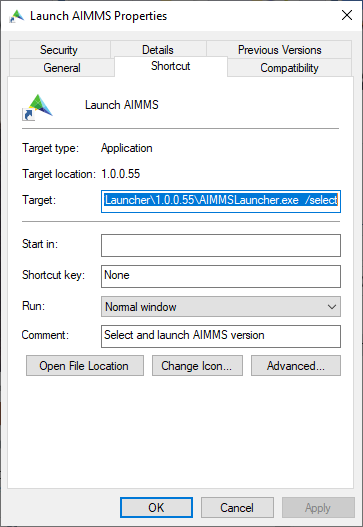
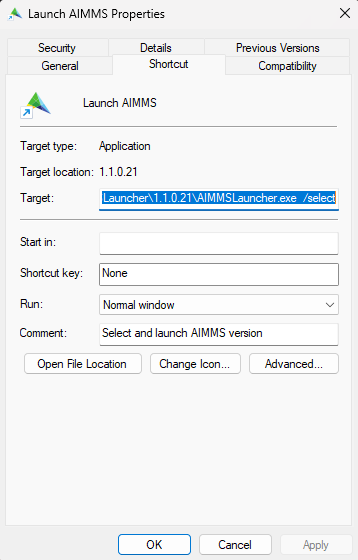
#350: changes after revision.
Former-commit-id: b421d103d000abb2f6f4ab2188a2297e00b79a71

diff --git a/Articles/350/350-install-AIMMS-elsewhere.rst b/Articles/350/350-install-AIMMS-elsewhere.rst
@@ -5,7 +5,7 @@ Installing AIMMS
    :description: Guide to installing AIMMS in a custom location and making it available for all users.
    :keywords: AIMMS, installation, all users, disk drive, custom location
 
-Installing AIMMS is straightforward. Simply download your chosen version from the `AIMMS downloads page <https://www.aimms.com/support/downloads>`_ and run the installer, such as ``Aimms-4.73.1.3-x64-VS2017.exe``. This installs AIMMS in the default location: ``%localappdata%\AIMMS\IFA\Aimms\``.
+Installing AIMMS Optimization Tooling is straightforward. Simply download your chosen version from the `AIMMS downloads page <https://www.aimms.com/support/downloads>`_ and run the installer, such as ``Aimms-4.73.1.3-x64-VS2017.exe``. This installs AIMMS in the default location: ``%localappdata%\Local\AIMMS\IFA\Aimms``.
 
 We recommend also downloading and installing the `AIMMS Launcher <https://www.aimms.com/support/downloads#aimms-other-download>`_ from the same page. The AIMMS Launcher offers the following features:
 
@@ -14,6 +14,8 @@ We recommend also downloading and installing the `AIMMS Launcher <https://www.ai
 
 .. image:: images/aimms-right-click.png
    :align: center
+
+|
 
 In most cases, this setup suffices. For custom installation requirements, such as installation for all users or to a non-default location, see the sections below.
 
@@ -27,22 +29,27 @@ You may wish to install AIMMS outside of the default location in these scenarios
 
 Starting with AIMMS 4.38, you can install AIMMS in a shared location, like ``C:\Program Files (x86)\AIMMS\IFA``.
 
-### Ensuring AIMMS Launcher is Up-to-Date
+Ensuring AIMMS Launcher is Up-to-Date
+~~~~~~~~~~~~~~~~~~~~~~~~~~~~~~~~~~~~~~~
 
 Before proceeding, make sure you have the latest version of AIMMS Launcher. You can check your installed version by viewing its properties. For example, an outdated version might be labeled ``1.0.0.50``:
 
 .. image:: images/LauncherTooOld.png
    :align: center
 
+|
+
 Reinstalling the Launcher from the downloads page will update it:
 
 .. image:: images/LauncherRefreshed.png
    :align: center
 
+|
+
 For installations requiring administrative access, install AIMMS Launcher with elevated rights. This will place it in ``C:\Program Files (x86)\AIMMS\IFA\AIMMSLauncher``.
 
 Installing on a Different Drive
--------------------------------
+~~~~~~~~~~~~~~~~~~~~~~~~~~~~~~~~~~~~~~~
 
 To save disk space, you may want to install AIMMS on a different drive. Although the installer doesn’t support custom drives directly, you can accomplish this using a symbolic link.
 
@@ -64,8 +71,6 @@ To save disk space, you may want to install AIMMS on a different drive. Although
 
 For more information on symbolic links, see the `Microsoft documentation <https://docs.microsoft.com/en-us/windows-server/administration/windows-commands/mklink>`_.
 
-### Installing AIMMS to the New Location
-
 With the symbolic link in place, you’re ready to install AIMMS in the new location. Run the installer "as administrator" by right-clicking it and choosing "Run as administrator". AIMMS will install to the new location on the D Drive, making it accessible to all licensed users on the machine.
 
 Installing the License
@@ -76,4 +81,4 @@ To use AIMMS, you must have a valid license:
 * If you don’t have one, request a `free academic license <https://www.aimms.com/support/licensing/academic-license/>`_.
 * Learn more about AIMMS licensing on the `AIMMS licensing page <https://www.aimms.com/support/licensing/>`_.
 * If managing multiple licenses, the `AIMMS Network License Server <https://www.aimms.com/support/downloads#aimms-other-download>`_ may be useful.
-* For additional licensing details, see the licensing `How-Tos <https://how-to.aimms.com/C_Getting_Started/Sub_Licensing/index.html>`_.
+* For additional licensing details, see the licensing `How-Tos <https://how-to.aimms.com/licensing/index.html>`_.
